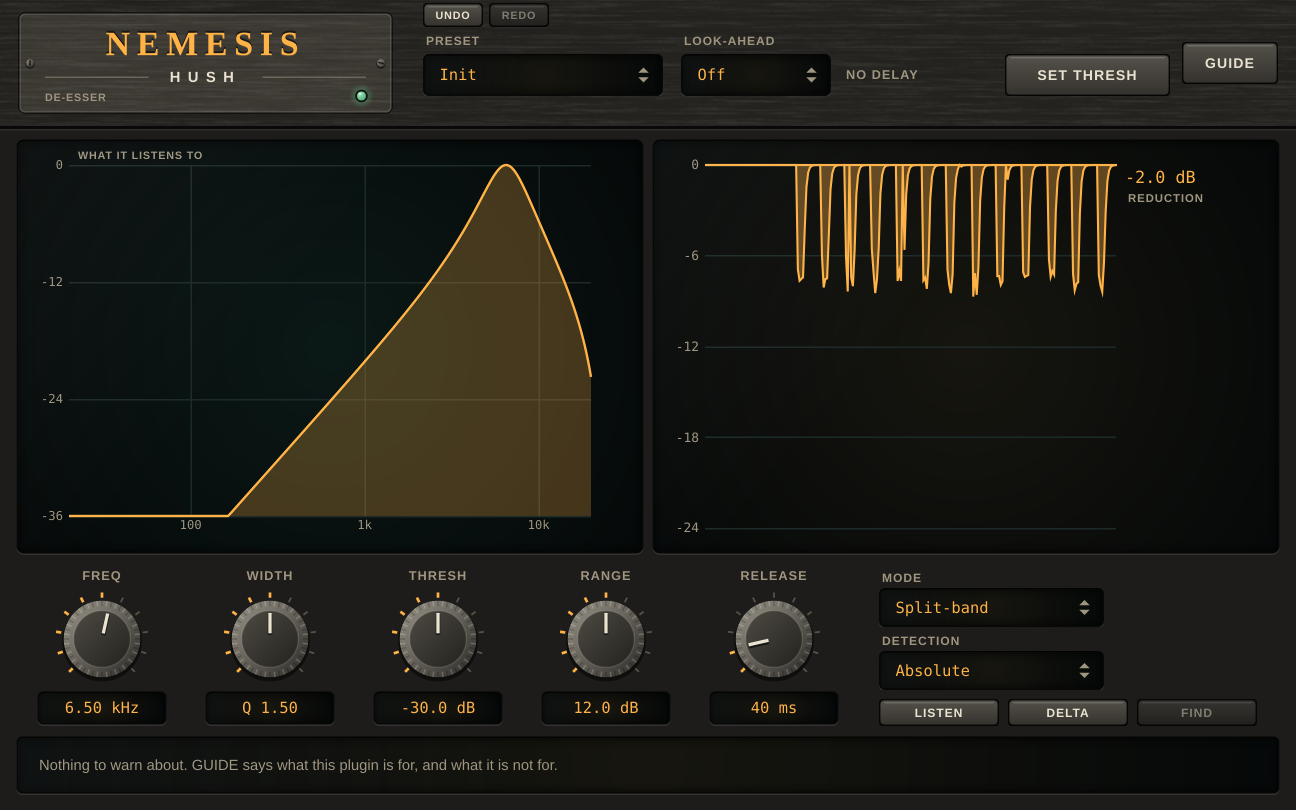
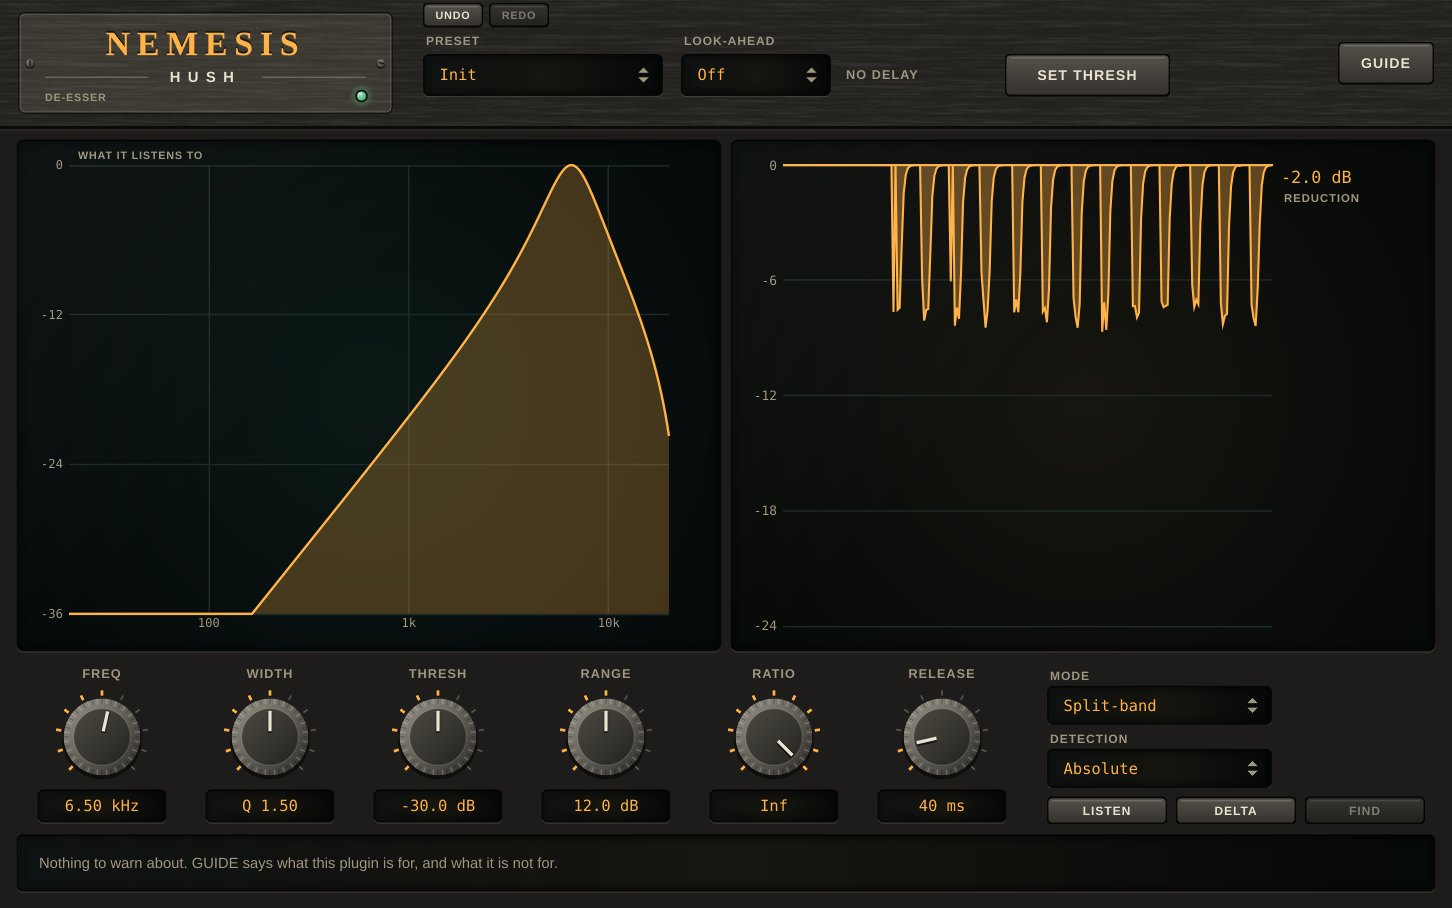
Nemesis: RATIO scales the reduction above THRESH (Inf by default: the law as it was)
Claude-Session: https://claude.ai/code/session_01PJDLAgLfcFaZRPW2gHfSC8

diff --git a/plugins/nemesis/Source/DSP/Engine.h b/plugins/nemesis/Source/DSP/Engine.h
@@ -22,6 +22,7 @@ inline constexpr double kAttackMs = 0.3;       // fixed: a sibilant is over in t
 inline constexpr double kEnvelopeFallMs = 2.0; // the detector's peak hold between the cycles of the band
 inline constexpr double kBodyMs = 30.0;        // the broadband level RELATIVE detection compares with
 inline constexpr double kKneeDb = 6.0;
+inline constexpr float kInfiniteRatio = 21.0f; // RATIO's top, shown as "Inf": the slope is exactly 1 there, the law as it was before RATIO
 inline constexpr double kRestDb = 1e-3;        // a reduction under this, with nothing to reduce, is let go to exactly 0
 inline constexpr double kFloorDb = -120.0;
 
@@ -56,6 +57,7 @@ struct EngineParams
     float q = 1.5f;             // the width of what is listened to (and, in SPLIT-BAND, of what is turned down)
     float thresholdDb = -30.0f; // absolute: dBFS of the band; relative: dB of the band under the whole sound
     float rangeDb = 8.0f;       // the most it takes off
+    float ratio = kInfiniteRatio; // above the threshold: 4 means 4 dB over gives 3 dB off (1 to kInfiniteRatio, which is Inf)
     float releaseMs = 40.0f;
     Mode mode = Mode::splitBand;
     Detection detection = Detection::absolute;
@@ -64,17 +66,25 @@ struct EngineParams
     int lookahead = 0;          // an index into kLookaheadMs: the sound is delayed by it, the detector is not
 };
 
-// The reduction for a level `over` the threshold: it holds the band at the threshold (infinite ratio), softly over a knee, up to the range.
-inline double reductionDb (double levelDb, double thresholdDb, double rangeDb) noexcept
+// The slope of the law for a ratio: 1 - 1/ratio, so each dB over the threshold gives that much reduction. Inf (kInfiniteRatio and up) is exactly 1, and a
+// ratio under 1 is read as 1 (no reduction at all), never a negative slope. Giannoulis, Massberg and Reiss, JAES 2012: a finite ratio is the gentler reduction.
+inline double slopeOf (float ratio) noexcept
+{
+    return ratio >= kInfiniteRatio ? 1.0 : 1.0 - 1.0 / std::fmax ((double) ratio, 1.0);
+}
+
+// The reduction for a level `over` the threshold: `slope` of the overshoot (1 holds the band at the threshold: an infinite ratio), softly over a knee of the
+// same slope, up to the range. The knee is continuous with the line above it at the top of the knee, so the slope changes nothing but the gradient.
+inline double reductionDb (double levelDb, double thresholdDb, double rangeDb, double slope = 1.0) noexcept
 {
     const double over = levelDb - thresholdDb;
     double r;
     if (2.0 * over < -kKneeDb)
         r = 0.0;
     else if (2.0 * std::fabs (over) <= kKneeDb)
-        r = (over + 0.5 * kKneeDb) * (over + 0.5 * kKneeDb) / (2.0 * kKneeDb);
+        r = slope * (over + 0.5 * kKneeDb) * (over + 0.5 * kKneeDb) / (2.0 * kKneeDb);
     else
-        r = over;
+        r = slope * over;
     return std::clamp (r, 0.0, std::fmax (rangeDb, 0.0));
 }
 
@@ -144,6 +154,7 @@ public:
             }
         }
         const double releaseCoef = coefOf (p.releaseMs);
+        const double slope = slopeOf (p.ratio);
         if (findRequest.exchange (false, std::memory_order_relaxed))
         {
             for (int k = 0; k < kFindBins; ++k)
@@ -190,7 +201,7 @@ public:
                 levelDb -= 10.0 * std::log10 (std::fmax (body, 1e-12) * 2.0); // the whole sound, read as the peak of a sine
             if (setActive)
                 feedSet (level, body);
-            const double wanted = reductionDb (levelDb, p.thresholdDb, p.rangeDb);
+            const double wanted = reductionDb (levelDb, p.thresholdDb, p.rangeDb, slope);
             gr += (wanted - gr) * (wanted > gr ? attackCoef : releaseCoef);
             if (gr < kRestDb && wanted == 0.0)
                 gr = 0.0; // at rest exactly: a gain of 1 is exactly 1

diff --git a/plugins/nemesis/Source/PluginEditor.cpp b/plugins/nemesis/Source/PluginEditor.cpp
@@ -16,7 +16,8 @@ constexpr int headerHeight = 84;
 constexpr int cellWidth = 112;
 constexpr int cellHeight = 108;
 constexpr int kTimerHz = 30;
-constexpr int kWidth = 864, kHeight = ui::editorHeightFor (kWidth); // 16:10, the kit's shape
+// Six knobs and the mode column need 938 px of the 944 inside the margins: 968 is the first multiple of 8 that holds them (the display takes the height).
+constexpr int kWidth = 968, kHeight = ui::editorHeightFor (kWidth); // 16:10, the kit's shape
 constexpr int displayHeight = kHeight - (headerHeight + 10 + 8 + cellHeight + 8 + ui::kNoteStripHeight + 12); // the display takes what the rest leaves
 }
 
@@ -26,6 +27,8 @@ NemesisEditor::NemesisEditor (NemesisProcessor& p)
       width (p.apvts, id::q, "WIDTH", "How wide the band is (Q: higher is narrower). Narrow takes only the hiss; wide takes more of the voice with it.", ui::Knob::Layout::below),
       threshold (p.apvts, id::threshold, "THRESH", "ABSOLUTE: the level of the band above which it is turned down (dBFS). RELATIVE: how far under the whole sound the band may be before it is turned down.", ui::Knob::Layout::below),
       range (p.apvts, id::range, "RANGE", "The most it takes off. Under 10 dB sounds natural; more makes a lisp.", ui::Knob::Layout::below),
+      ratio (p.apvts, id::ratio, "RATIO", "The slope above THRESH: at 4:1 each dB over the threshold takes off 0.75 dB, a gentler reduction than the band held at THRESH. "
+                                          "Inf holds it there, as the de-esser did before RATIO.", ui::Knob::Layout::below),
       release (p.apvts, id::release, "RELEASE", "How fast the gain comes back after an s (63% of the way in this time). The attack is fixed at 0.3 ms.", ui::Knob::Layout::below),
       mode (p.apvts, id::mode, "SPLIT-BAND: only the band is turned down; the rest of the voice is not touched.\nWIDEBAND: the whole sound is turned down, as with a compressor."),
       detection (p.apvts, id::detection, "ABSOLUTE: THRESH is a level in dBFS: it has to be set for each recording.\nRELATIVE: the band is compared with the whole sound, so one setting works for quiet and loud passages."),
@@ -38,7 +41,7 @@ NemesisEditor::NemesisEditor (NemesisProcessor& p)
       proc (p)
 {
     setLookAndFeel (&look);
-    for (auto* c : std::initializer_list<juce::Component*> { &freq, &width, &threshold, &range, &release, &mode, &detection, &lookahead, &presetBox, &listen, &delta, &findButton, &setThreshButton, &guideButton })
+    for (auto* c : std::initializer_list<juce::Component*> { &freq, &width, &threshold, &range, &ratio, &release, &mode, &detection, &lookahead, &presetBox, &listen, &delta, &findButton, &setThreshButton, &guideButton })
         addAndMakeVisible (*c);
     addAndMakeVisible (undoButtons);
     setThreshButton.setTooltip ("Listens to a second and a half of your sound and sets THRESH where its loudest few percent of the s begin: a starting point. FREQ is not moved; "
@@ -93,7 +96,7 @@ void NemesisEditor::resized()
     historyArea = display;
     bounds.removeFromTop (8);
     auto knobs = bounds.removeFromTop (cellHeight);
-    for (auto* k : { &freq, &width, &threshold, &range, &release })
+    for (auto* k : { &freq, &width, &threshold, &range, &ratio, &release })
         k->setBounds (knobs.removeFromLeft (cellWidth));
     knobs.removeFromLeft (14);
     auto column = knobs.withTrimmedTop (4);

diff --git a/plugins/nemesis/Tests/Tests.cpp b/plugins/nemesis/Tests/Tests.cpp
@@ -491,5 +491,53 @@ int main()
         check (r.setCount.load() == 1 && r.setStatus.load() == (int) SetStatus::stopped && ! r.setting.load(), "a reset in the middle of the pass answers `stopped`");
     }
 
+    // [11] RATIO: each dB over the threshold takes off (1 - 1/ratio) dB; Inf (kInfiniteRatio) is the law as it was, bit for bit.
+    std::printf ("\n[11] Ratio\n");
+    {
+        const double law = reductionDb (10.0, 0.0, 24.0, 0.5);
+        check (std::fabs (law - 5.0) < 1e-12, fmt ("reductionDb (10 dB over, range 24, slope 0.5 = 2:1) = %.2f dB (the law: 5)", law));
+        check (reductionDb (10.0, 0.0, 24.0, 1.0) == 10.0 && reductionDb (10.0, 0.0, 24.0) == 10.0, "with slope 1 (Inf) the reduction is the overshoot: 10 dB over gives 10 dB, the old law");
+
+        // A sibilant 10 dB over a -30 dB threshold, split-band, at 2:1: it settles at 5 dB of reduction.
+        EngineParams p;
+        p.thresholdDb = -30.0f;
+        p.rangeDb = 24.0f;
+        p.ratio = 2.0f;
+        const auto in = tones ({ { 6500.0, -20.0 } }, n);
+        Engine e;
+        e.prepare (kFs);
+        const auto out = run (e, in, p);
+        const double held = -changeAt (in, out, 6500.0);
+        check (std::fabs (held - 5.0) < 0.3, fmt ("RATIO 2:1: a sibilant 10 dB over the threshold is turned down by %.2f dB (the law: 5, half the overshoot)", held));
+
+        // The default is Inf and it is the law as it was: a default EngineParams and one with the ratio set to Inf give the same output, bit for bit, in both modes,
+        // on noise with sibilant bursts (and the reduction is really at work in it).
+        std::mt19937 gen (13);
+        std::uniform_real_distribution<float> white (-1.0f, 1.0f);
+        Stereo mix { std::vector<float> (2 * 48000), std::vector<float> (2 * 48000) };
+        for (size_t i = 0; i < mix.l.size(); ++i)
+        {
+            const bool s = i % 24000 >= 4800 && i % 24000 < 10560; // 120 ms of 6.5 kHz every half second
+            const float hiss = 0.02f * white (gen) + (s ? 0.3f * (float) std::sin (2.0 * M_PI * 6500.0 * (double) i / kFs) : 0.0f);
+            mix.l[i] = hiss + 0.1f * (float) std::sin (2.0 * M_PI * 300.0 * (double) i / kFs);
+            mix.r[i] = 0.5f * hiss + 0.1f * (float) std::sin (2.0 * M_PI * 300.0 * (double) i / kFs);
+        }
+        for (const Mode m : { Mode::splitBand, Mode::wideband })
+        {
+            EngineParams unset, infinite;
+            unset.mode = infinite.mode = m;
+            unset.rangeDb = infinite.rangeDb = 12.0f;
+            infinite.ratio = kInfiniteRatio;
+            Engine a, b;
+            a.prepare (kFs);
+            b.prepare (kFs);
+            const auto ref = run (a, mix, unset);
+            const auto got = run (b, mix, infinite);
+            const bool acted = changeAt (mix, ref, 6500.0) < -3.0;
+            check (ref.l == got.l && ref.r == got.r && acted, fmt ("%s: RATIO at Inf gives the output of the default, bit for bit (the sibilant is turned down by %.1f dB)",
+                                                                  m == Mode::splitBand ? "SPLIT-BAND" : "WIDEBAND", -changeAt (mix, ref, 6500.0)));
+        }
+    }
+
     return test::finish ("NemesisTests");
 }

diff --git a/plugins/nemesis/Source/Parameters.h b/plugins/nemesis/Source/Parameters.h
@@ -12,7 +12,8 @@ namespace nemesis
 namespace id
 {
 inline const juce::String freq { "freq" }, q { "q" }, threshold { "thresh" }, range { "range" }, release { "release" }, mode { "mode" }, detection { "detect" }, listen { "listen" }, lookahead { "lookahead" },
-    delta { "delta" }; // version 3 (lookahead is 2): hear what is turned down, off
+    delta { "delta" }, // version 3 (lookahead is 2): hear what is turned down, off
+    ratio { "ratio" }; // version 4 (delta is 3): above the threshold, Inf (the law as it was)
 }
 
 inline const juce::StringArray modeNames { "Split-band", "Wideband" };
@@ -51,6 +52,11 @@ inline juce::AudioProcessorValueTreeState::ParameterLayout createLayout()
     // Added after the first release: version 2, so a session saved before it has no value and gets the default (Off, the plug-in as it was).
     p.push_back (std::make_unique<AudioParameterChoice> (ParameterID { id::lookahead, 2 }, "Look-ahead", lookaheadNames, d.lookahead));
     p.push_back (std::make_unique<AudioParameterBool> (ParameterID { id::delta, 3 }, "Delta", d.delta));
+    // Added after DELTA: version 4, so a session saved before it gets Inf, the de-esser as it was.
+    p.push_back (std::make_unique<AudioParameterFloat> (ParameterID { id::ratio, 4 }, "Ratio", NormalisableRange<float> (1.0f, kInfiniteRatio, 0.1f), d.ratio,
+                                                         Attr()
+                                                             .withStringFromValueFunction ([] (float v, int) { return v >= kInfiniteRatio ? String ("Inf") : String (v, 1) + ":1"; })
+                                                             .withValueFromStringFunction ([] (const String& s) { return s.containsIgnoreCase ("inf") ? kInfiniteRatio : s.trim().getFloatValue(); })));
     return { p.begin(), p.end() };
 }
 
@@ -63,6 +69,7 @@ inline EngineParams readParams (juce::AudioProcessorValueTreeState& s)
     e.q = v (id::q);
     e.thresholdDb = v (id::threshold);
     e.rangeDb = v (id::range);
+    e.ratio = std::clamp (v (id::ratio), 1.0f, kInfiniteRatio);
     e.releaseMs = v (id::release);
     e.mode = (Mode) std::clamp ((int) v (id::mode), 0, kNumModes - 1);
     e.detection = (Detection) std::clamp ((int) v (id::detection), 0, kNumDetections - 1);

diff --git a/plugins/nemesis/Tests/UiCheck.cpp b/plugins/nemesis/Tests/UiCheck.cpp
@@ -24,7 +24,7 @@ int main()
     proc.prepareToPlay (48000.0, 512);
 
     check (proc.getName() == juce::String (gui::kProjectWord) + " " + gui::kPluginWord, "the reported name is the nameplate's two words");
-    check (proc.getParameters().size() == 10, fmt ("%d parameters: frequency, width, threshold, range, release, mode, detection, listen, look-ahead and delta", proc.getParameters().size()));
+    check (proc.getParameters().size() == 11, fmt ("%d parameters: frequency, width, threshold, range, release, mode, detection, listen, look-ahead, delta and ratio", proc.getParameters().size()));
     check (lookaheadNames.size() == kNumLookaheads, "the look-ahead list matches the engine's");
     check (modeNames.size() == kNumModes && detectionNames.size() == kNumDetections, "the choice lists match the engine's");
     const auto d = readParams (proc.apvts);
@@ -66,6 +66,11 @@ int main()
         editor.setVisible (true);
         check (editor.mode.getNumItems() == kNumModes && editor.detection.getNumItems() == kNumDetections, "the selectors have the parameters' items");
         check (editor.getWidth() > 700 && editor.release.getRight() < editor.mode.getX() && editor.listen.getBottom() < editor.getHeight(), "the controls fit the window");
+        check (editor.ratio.isVisible() && editor.ratio.getBounds().getRight() <= editor.release.getX() && editor.ratio.getX() >= editor.range.getRight() &&
+                   ! editor.ratio.getBounds().intersects (editor.range.getBounds()) && ! editor.ratio.getBounds().intersects (editor.release.getBounds()),
+               "RATIO is a knob of its own, between RANGE and RELEASE");
+        check (std::fabs (readParams (proc.apvts).ratio - kInfiniteRatio) < 1e-4f && proc.apvts.getParameter (id::ratio)->getCurrentValueAsText() == "Inf",
+               "RATIO's default is Inf (the law as it was), and it reads Inf");
         editor.listen.triggerClick();
         juce::MessageManager::getInstance()->runDispatchLoopUntil (100);
         check (readParams (proc.apvts).listen && ui::hasNote (editor.notes(), "LISTEN is on", ui::Severity::warning), "LISTEN sets the parameter, and a note says you hear only the band");

diff --git a/plugins/nemesis/Source/Advice.h b/plugins/nemesis/Source/Advice.h
@@ -57,7 +57,7 @@ inline const char* guideText()
 {
     return "FOR\n"
            "Taming the s, sh and t of a voice (sibilance): it listens to a band (FREQ and WIDTH), and when the band is louder than THRESH it turns it down, "
-           "by up to RANGE. SPLIT-BAND turns down only that band, so the rest of the voice is not touched; WIDEBAND turns the whole sound down.\n\n"
+           "by up to RANGE, and RATIO sets how hard above THRESH (Inf holds the band at THRESH; 4:1 turns down three quarters of each dB over it, a gentler reduction). SPLIT-BAND turns down only that band, so the rest of the voice is not touched; WIDEBAND turns the whole sound down.\n\n"
            "FINDING IT\n"
            "Switch LISTEN on and move FREQ until you hear the hiss of the s: that is the band the detector hears. FIND does it for you: with LISTEN on, play a passage with s in it and press FIND; it listens for a second and a half and sets FREQ to the strongest place between 4 and 10 kHz. "
            "SET THRESH (in the header) listens to a second and a half of the sound and sets THRESH where its loudest few percent of s begin: a starting point, for a passage with s in it. "

diff --git a/plugins/nemesis/Source/PluginEditor.h b/plugins/nemesis/Source/PluginEditor.h
@@ -22,7 +22,7 @@ public:
 
     static constexpr int kHistory = 240;
 
-    ui::Knob freq, width, threshold, range, release;
+    ui::Knob freq, width, threshold, range, ratio, release;
     ui::Choice mode, detection, lookahead;
     ui::PresetBox presetBox;
     ui::Toggle listen, delta;

diff --git a/plugins/nemesis/README.md b/plugins/nemesis/README.md
@@ -10,7 +10,7 @@ quiet and loud passages, and can play you the band it listens to, so you can fin
 
 ![Nemesis Hush](docs/screenshot.png)
 
-*Headless render of the editor (the hardware-style interface shared with the other plugins). A buzzing vowel with bursts of hiss, in split-band mode with absolute detection: FREQ 6.5 kHz, WIDTH Q 1.5, THRESH -30 dB, RANGE 12 dB and RELEASE 40 ms. LISTEN, DELTA and FIND (dimmed: LISTEN is off) are under the selectors; UNDO / REDO sit in the header's top strip, above the labels: UNDO is lit and REDO dimmed, as after a change; SET THRESH is in the header, beside LOOK-AHEAD. On the left, the band it listens to; on the right, the reduction over the last seconds, which falls at every burst of hiss (-1.2 dB now) and rests at 0 between them. Regenerate with the command under "Development".*
+*Headless render of the editor (the hardware-style interface shared with the other plugins). A buzzing vowel with bursts of hiss, in split-band mode with absolute detection: FREQ 6.5 kHz, WIDTH Q 1.5, THRESH -30 dB, RANGE 12 dB, RATIO Inf (the knob between RANGE and RELEASE, here at its default: the law as it was) and RELEASE 40 ms. LISTEN, DELTA and FIND (dimmed: LISTEN is off) are under the selectors; UNDO / REDO sit in the header's top strip, above the labels: UNDO is lit and REDO dimmed, as after a change; SET THRESH is in the header, beside LOOK-AHEAD. On the left, the band it listens to; on the right, the reduction over the last seconds, which falls at every burst of hiss (-2.0 dB at the moment of the render) and rests at 0 between them. Regenerate with the command under "Development".*
 
 ## What it does
 
@@ -20,6 +20,7 @@ quiet and loud passages, and can play you the band it listens to, so you can fin
 | **Width** | Q 0.5 to 5, 1.5 by default: how wide the band is (higher is narrower). |
 | **Thresh** | -60 to 0 dB, -30 by default. *Absolute:* the level of the band (peak of a sine, dBFS) above which it is turned down. *Relative:* how far under the whole sound the band may be. |
 | **Range** | 0 to 24 dB, 8 by default: the most it takes off. |
+| **Ratio** | 1:1 to Inf, Inf by default. Above THRESH each dB over it takes off `1 - 1/ratio` dB: 4:1 takes off 0.75 dB per dB over, a gentler reduction than the band held at THRESH (Giannoulis, Massberg and Reiss, JAES 2012). Inf holds the band at THRESH, the de-esser as it was before RATIO. |
 | **Release** | 5 to 300 ms, 40 by default. The attack is fixed at 0.3 ms. |
 | **Mode** | *Split-band:* only the band is turned down (the rest of the voice is not touched). *Wideband:* the whole sound is turned down. |
 | **Detection** | *Absolute* or *Relative* (see Thresh). |
@@ -38,13 +39,14 @@ The display shows the response of the band the detector hears and the reduction 
 1. **Detect.** Each channel goes through a constant-0-dB band-pass at FREQ and WIDTH (an RBJ biquad). Its peak envelope takes a peak at once and lets it fall over 2 ms (so the gain does not ripple
    with the waveform); the louder channel decides, so both channels get one gain and the image does not move.
 2. **Level.** *Absolute:* the envelope in dB. *Relative:* the envelope in dB minus the level of the whole sound (a 30 ms mean square, read as the peak of a sine).
-3. **Reduction.** Infinite ratio: it holds the band at the threshold, with a 6 dB soft knee, up to RANGE. A one-pole follower (0.3 ms attack, RELEASE) smooths it; at rest (under 0.001 dB with nothing to reduce) it is let go to exactly 0.
+3. **Reduction.** The overshoot over THRESH is multiplied by the slope `1 - 1/ratio` (RATIO), with a 6 dB soft knee of the same slope, up to RANGE. At Inf the slope is exactly 1: the band is held at the threshold, as the first release did. A one-pole follower (0.3 ms attack, RELEASE) smooths it; at rest (under 0.001 dB with nothing to reduce) it is let go to exactly 0.
 4. **Apply.** *Split-band:* `output = input - (1 - gain) x band`, so the band is turned down by the gain and the rest is not touched, and with a gain of exactly 1 the output is exactly the input. *Wideband:* `input x gain`.
    LISTEN outputs the band.
 
 ## Measured (`NemesisTests`, 48 kHz)
 
 - A sibilant (a 6.5 kHz tone) at -20 dBFS over a -30 dB threshold is turned down by 9.95 dB (the law: 10, it holds the band at the threshold); RANGE 6 dB stops the reduction at 6.00 dB.
+- RATIO: `reductionDb` of 10 dB over with slope 0.5 (2:1) is 5.00 dB, and with slope 1 (Inf) it is 10.00 dB. A sibilant 10 dB over a -30 dB threshold at 2:1 settles at 4.98 dB of reduction (the law: 5). At Inf the output is the default's, bit for bit, in split-band (the sibilant -12.0 dB) and in wideband (-11.9 dB), on noise with sibilant bursts.
 - Split-band: with a vowel (300 Hz, -12 dBFS) and a sibilant (6.5 kHz, -16 dBFS) the vowel changes by -0.00 dB and the sibilant by -12.0 dB (RANGE 12). Wideband: both by -12.0 dB.
 - A tone at 1.5 kHz as loud as the sibilant is not touched (-0.000 dB): the detector listens to the band.
 - DELTA: the output plus DELTA is the input to 1e-8 in split-band and wideband (the delta reaches 0.19 and 0.26 for a -12 dBFS sibilant); with nothing turned down it is exactly silent.

diff --git a/plugins/nemesis/CLAUDE.md b/plugins/nemesis/CLAUDE.md
@@ -48,6 +48,8 @@ With `delaySamples == 0` the ring returns the input, so the engine is bit-identi
 
 **The envelope has a 2 ms fall** (`kEnvelopeFallMs`): the band's output swings through zero every half cycle, and a detector fed with `|band|` per sample made the follower ripple. Do not remove it.
 
+**The ratio scales the law, it does not replace it.** `slopeOf (ratio)` is `1 - 1/ratio` and `reductionDb` multiplies the overshoot and the knee by it (the knee stays continuous with the line above). At `kInfiniteRatio` (21, "Inf") the slope is exactly 1.0, so the law is the one of the first release bit for bit (test [11]); the default is Inf.
+
 **At rest the gain is exactly 1** (`kRestDb`): a reduction under it, with nothing to reduce, is set to exactly 0, and `gr == 0` gives a gain of exactly 1.
 
 **RELATIVE** subtracts the broadband level (30 ms mean square of the input, `x 2` for the peak of a sine) from the band level in dB, so a sound 30 dB quieter has the same relative level (test [6]).
@@ -57,7 +59,7 @@ block-size dependence only exists while a knob moves).
 
 **Real time.** `Engine::process` allocates and locks nothing. **Bad samples:** NaN and infinity are replaced by 0 on the way in.
 
-**Parameters.** Ids (`nemesis::id`) are stored in sessions and automation: never rename or remove one. All are `ParameterID` version 1 except `lookahead`, which is version 2 (a session saved before it opens with it Off), and `delta`, version 3 (off); a new one needs a higher version, an entry in `readParams()` and a place in the editor.
+**Parameters.** Ids (`nemesis::id`) are stored in sessions and automation: never rename or remove one. All are `ParameterID` version 1 except `lookahead`, which is version 2 (a session saved before it opens with it Off), `delta`, version 3 (off), and `ratio`, version 4 (Inf: the law as it was); a new one needs a higher version, an entry in `readParams()` and a place in the editor.
 The order of `modeNames` and `detectionNames` is the order of `Mode` and `Detection`.
 
 ## DRY: where each thing lives
